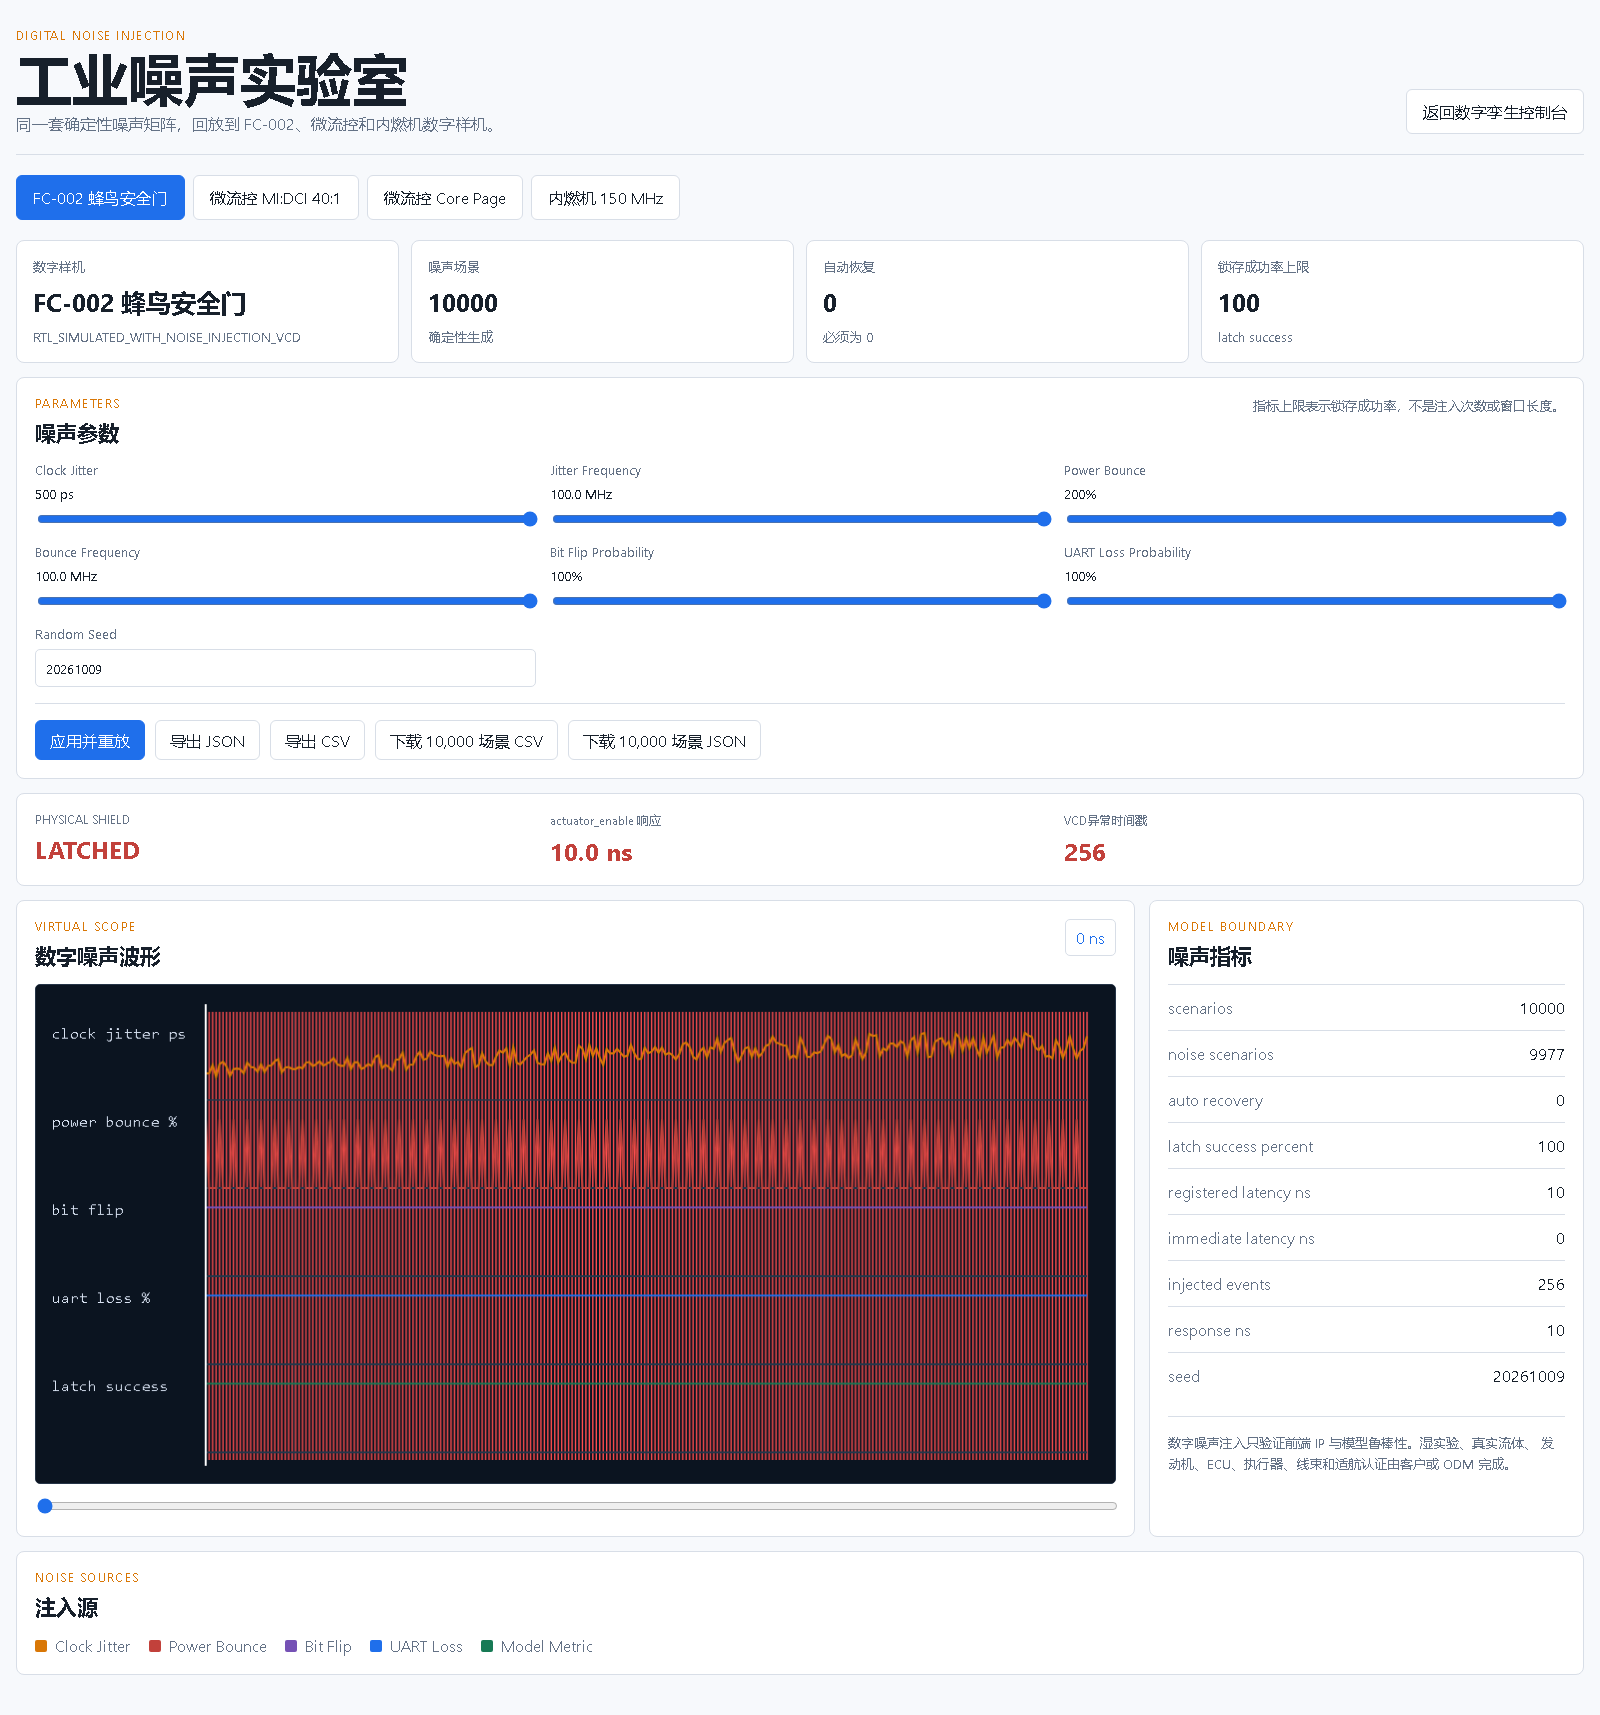
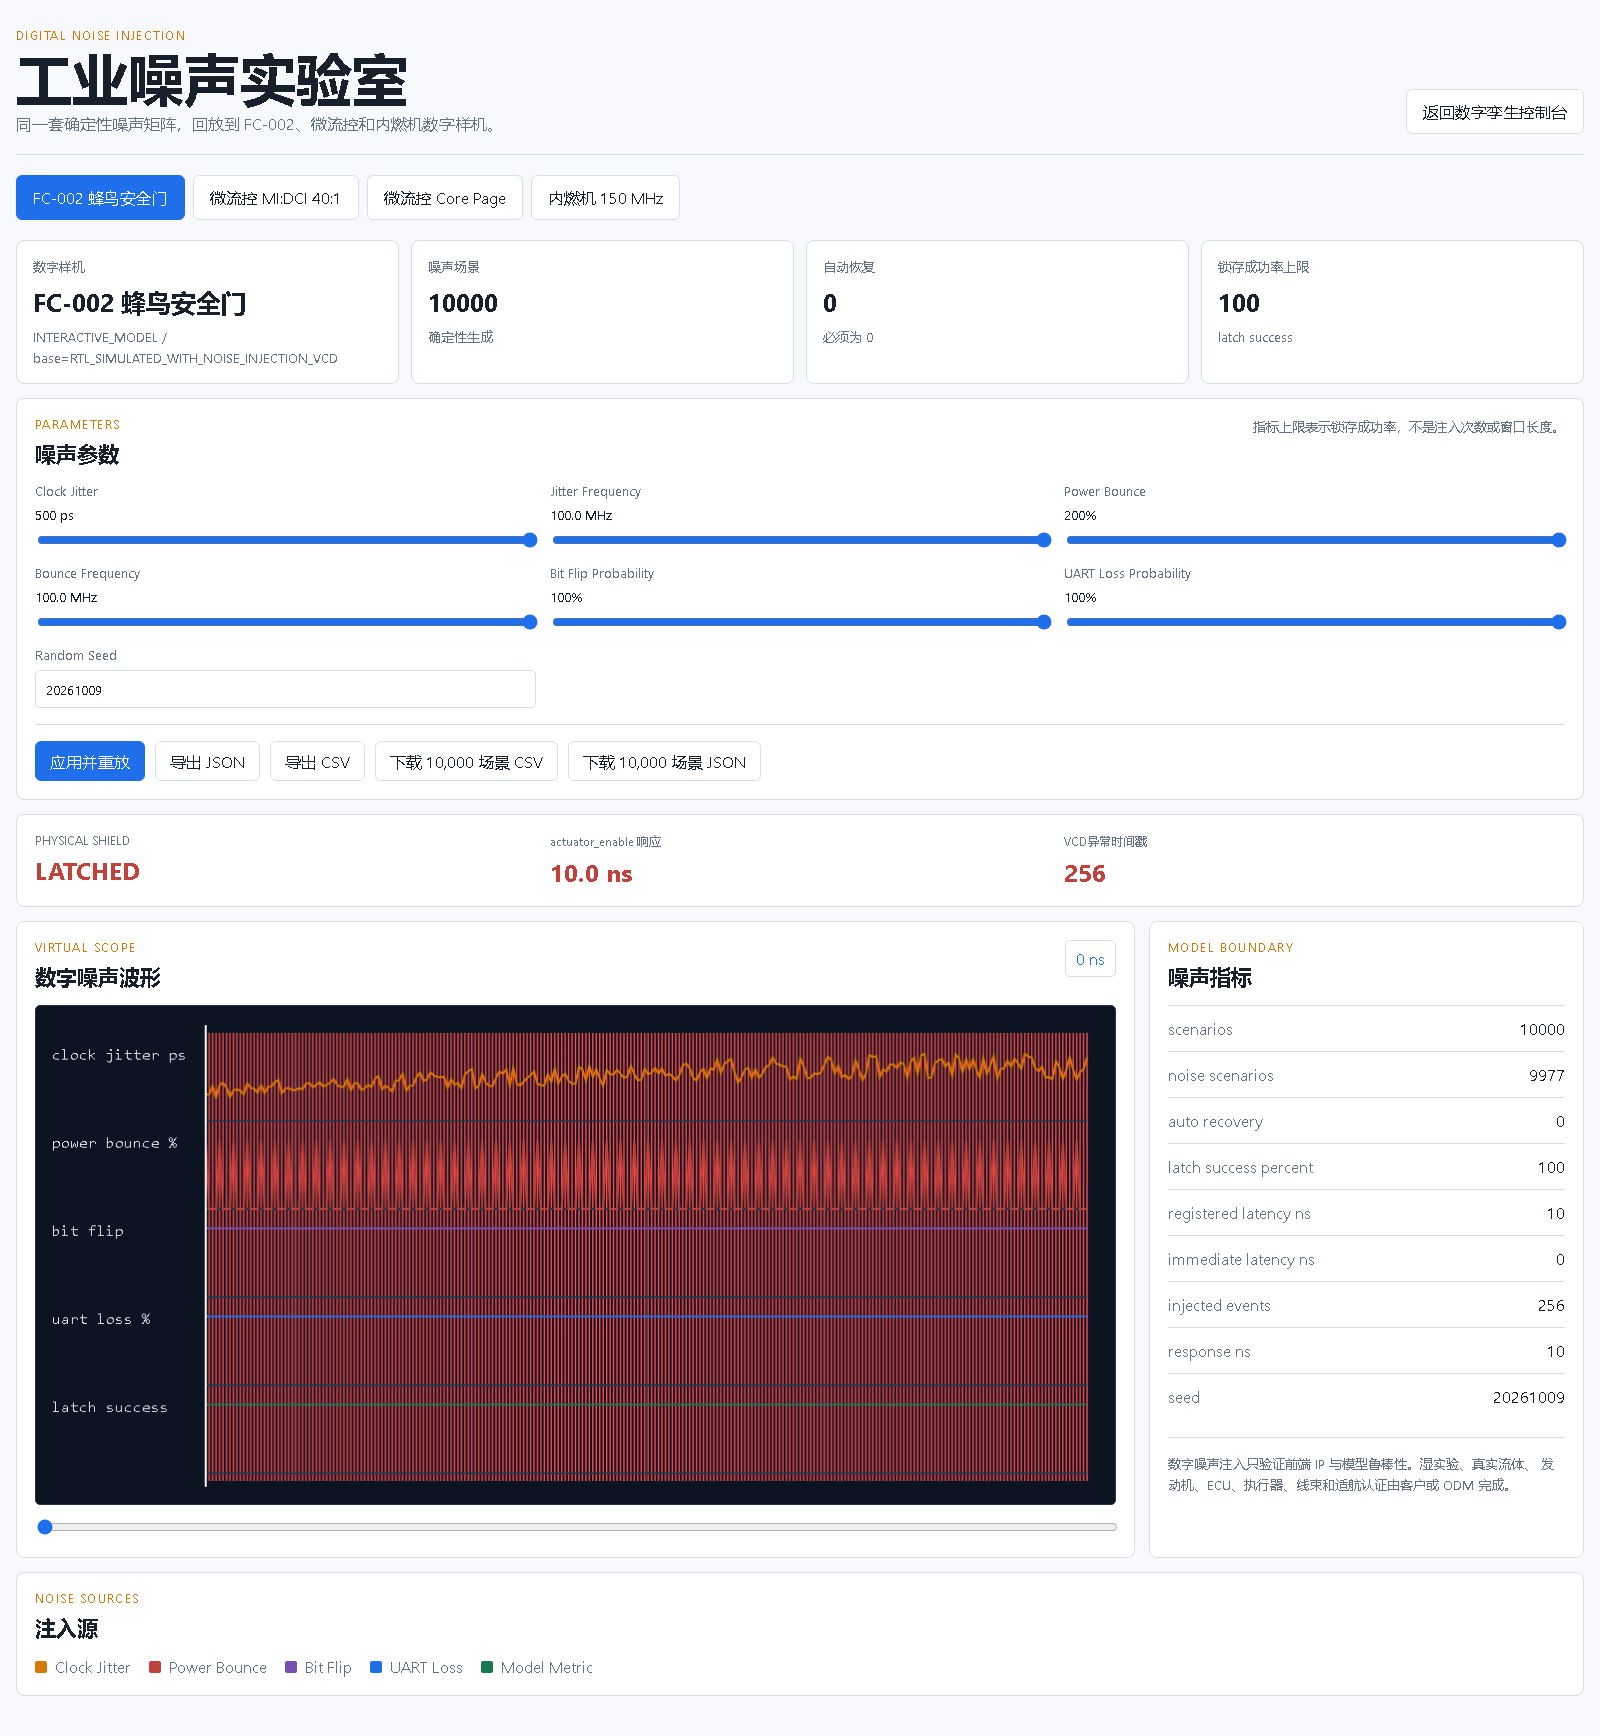
Bind noise controls to dashboard safety shield

diff --git a/digital-twin/app.js b/digital-twin/app.js
@@ -23,6 +23,12 @@ const ui = {
   modeNoise: document.getElementById("mode-noise"),
   dashboardGrid: document.querySelector(".dashboard-grid"),
   noisePanel: document.getElementById("noise-embed-panel"),
+  noiseFrame: document.getElementById("noise-embed-frame"),
+  noiseLiveStrip: document.getElementById("noise-live-strip"),
+  noiseLiveShield: document.getElementById("noise-live-shield"),
+  noiseLiveResponse: document.getElementById("noise-live-response"),
+  noiseLiveEvents: document.getElementById("noise-live-events"),
+  noiseLiveEvidence: document.getElementById("noise-live-evidence"),
   flowTitle: document.getElementById("flow-title"),
   ratioBadge: document.getElementById("ratio-badge"),
   barA: document.getElementById("bar-a"),
@@ -407,6 +413,25 @@ ui.resetButton.addEventListener("click", () => {
 ui.modeMicro.addEventListener("click", () => setMode("microfluidic"));
 ui.modeIce.addEventListener("click", () => setMode("ice"));
 ui.modeNoise.addEventListener("click", () => setMode("noise"));
+window.addEventListener("message", (event) => {
+  if (!event.data || event.data.type !== "XG_NOISE_STATE") return;
+  if (event.source !== ui.noiseFrame.contentWindow) return;
+
+  const latched = Boolean(event.data.latched);
+  ui.noiseLiveStrip.classList.toggle("latched", latched);
+  ui.noiseLiveShield.textContent = latched ? "LATCHED" : "SAFE";
+  ui.noiseLiveResponse.textContent = `${Number(event.data.responseNs || 0).toFixed(1)} ns`;
+  ui.noiseLiveEvents.textContent = String((event.data.events || []).length);
+  ui.noiseLiveEvidence.textContent = event.data.evidenceLevel || "INTERACTIVE_MODEL";
+  state.noiseEvents = event.data.events || [];
+
+  ui.safetyShield.classList.toggle("alarm", latched);
+  ui.shieldState.textContent = latched ? "ALARM" : "SAFE";
+  ui.shieldCaption.textContent = latched
+    ? "工业噪声触发单向故障锁存"
+    : "工业噪声参数未触发锁存";
+  ui.statusDot.className = `status-dot ${latched ? "alarm" : ""}`;
+});
 ui.scrubber.addEventListener("input", (event) => {
   state.playing = false;
   cancelAnimationFrame(state.animationFrame);

diff --git a/digital-twin/index.html b/digital-twin/index.html
@@ -137,6 +137,24 @@
     </main>
 
     <section id="noise-embed-panel" class="panel noise-embed-panel hidden">
+      <div id="noise-live-strip" class="noise-live-strip">
+        <div>
+          <span>PHYSICAL SHIELD</span>
+          <strong id="noise-live-shield">SAFE</strong>
+        </div>
+        <div>
+          <span>actuator_enable 响应</span>
+          <strong id="noise-live-response">0.0 ns</strong>
+        </div>
+        <div>
+          <span>VCD异常时间戳</span>
+          <strong id="noise-live-events">0</strong>
+        </div>
+        <div>
+          <span>证据等级</span>
+          <strong id="noise-live-evidence">INTERACTIVE_MODEL</strong>
+        </div>
+      </div>
       <iframe
         id="noise-embed-frame"
         src="industrial-noise-lab.html?embedded=1"

diff --git a/digital-twin/styles.css b/digital-twin/styles.css
@@ -171,6 +171,42 @@ h2 {
   background: #f7f9fc;
 }
 
+.noise-live-strip {
+  display: grid;
+  grid-template-columns: repeat(4, 1fr);
+  gap: 12px;
+  padding: 14px 18px;
+  border-bottom: 1px solid var(--line);
+  background: #0f1b28;
+}
+
+.noise-live-strip span {
+  display: block;
+  color: var(--muted);
+  font-size: 12px;
+  margin-bottom: 5px;
+}
+
+.noise-live-strip strong {
+  font-size: 20px;
+  font-variant-numeric: tabular-nums;
+}
+
+.noise-live-strip.latched {
+  background: #351111;
+  box-shadow: inset 0 0 0 2px rgba(255, 95, 87, 0.55);
+}
+
+.noise-live-strip.latched strong {
+  color: var(--red);
+}
+
+@media (max-width: 900px) {
+  .noise-live-strip {
+    grid-template-columns: repeat(2, 1fr);
+  }
+}
+
 .panel {
   border: 1px solid var(--line);
   background: var(--surface);
